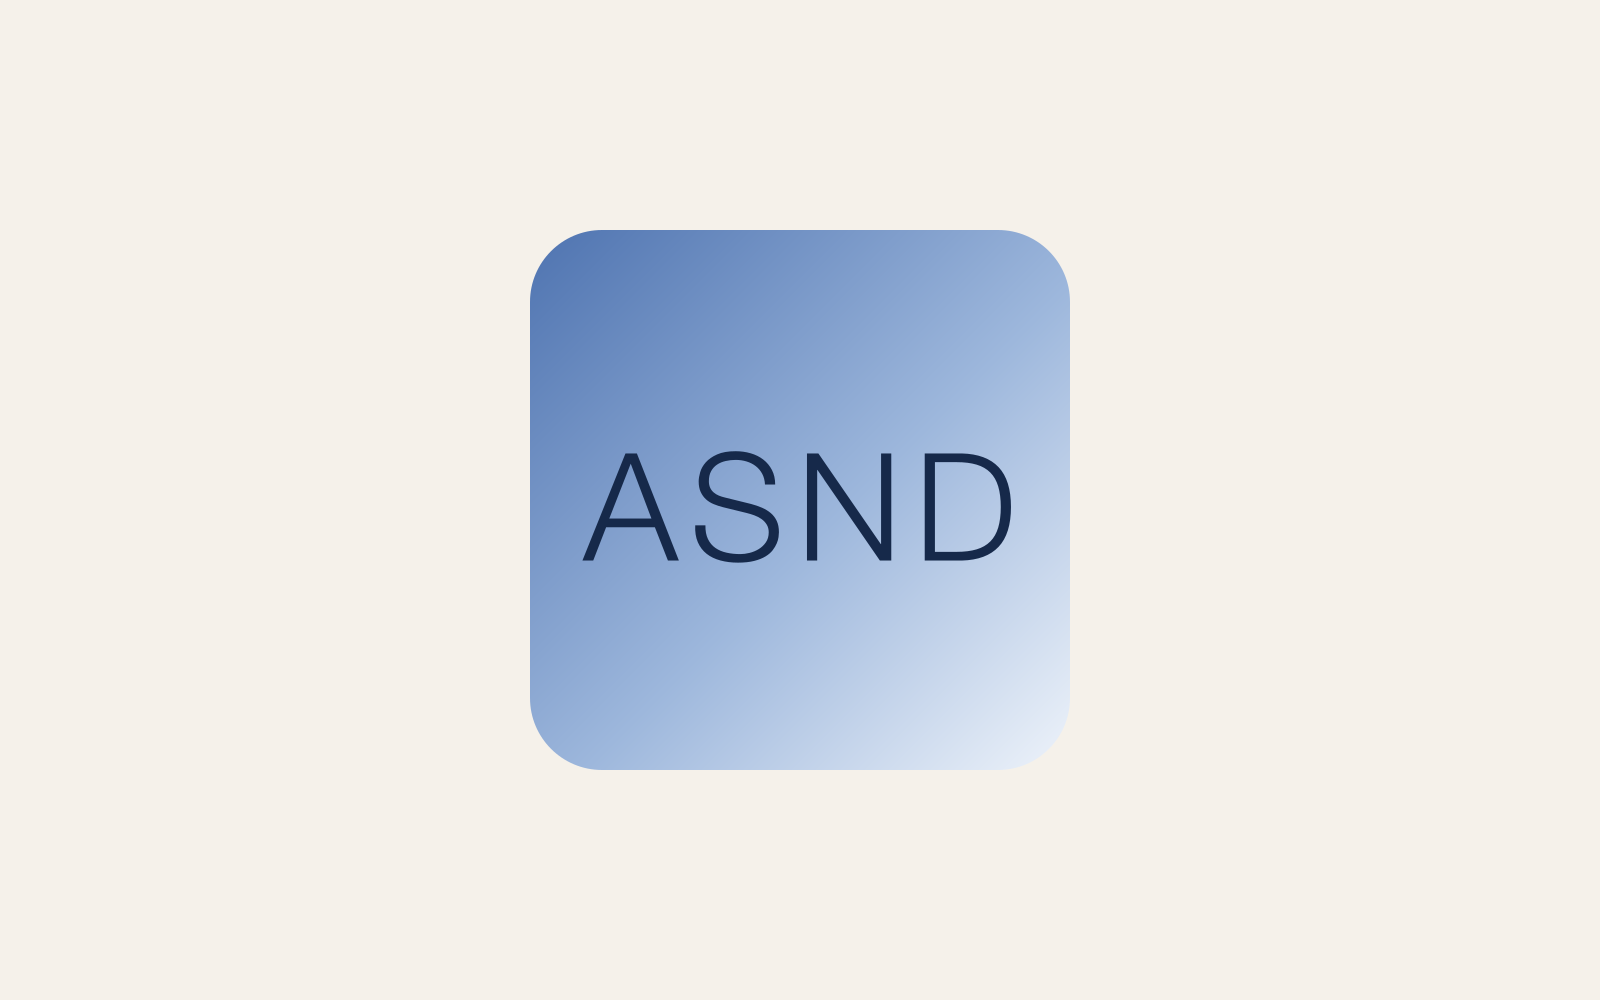
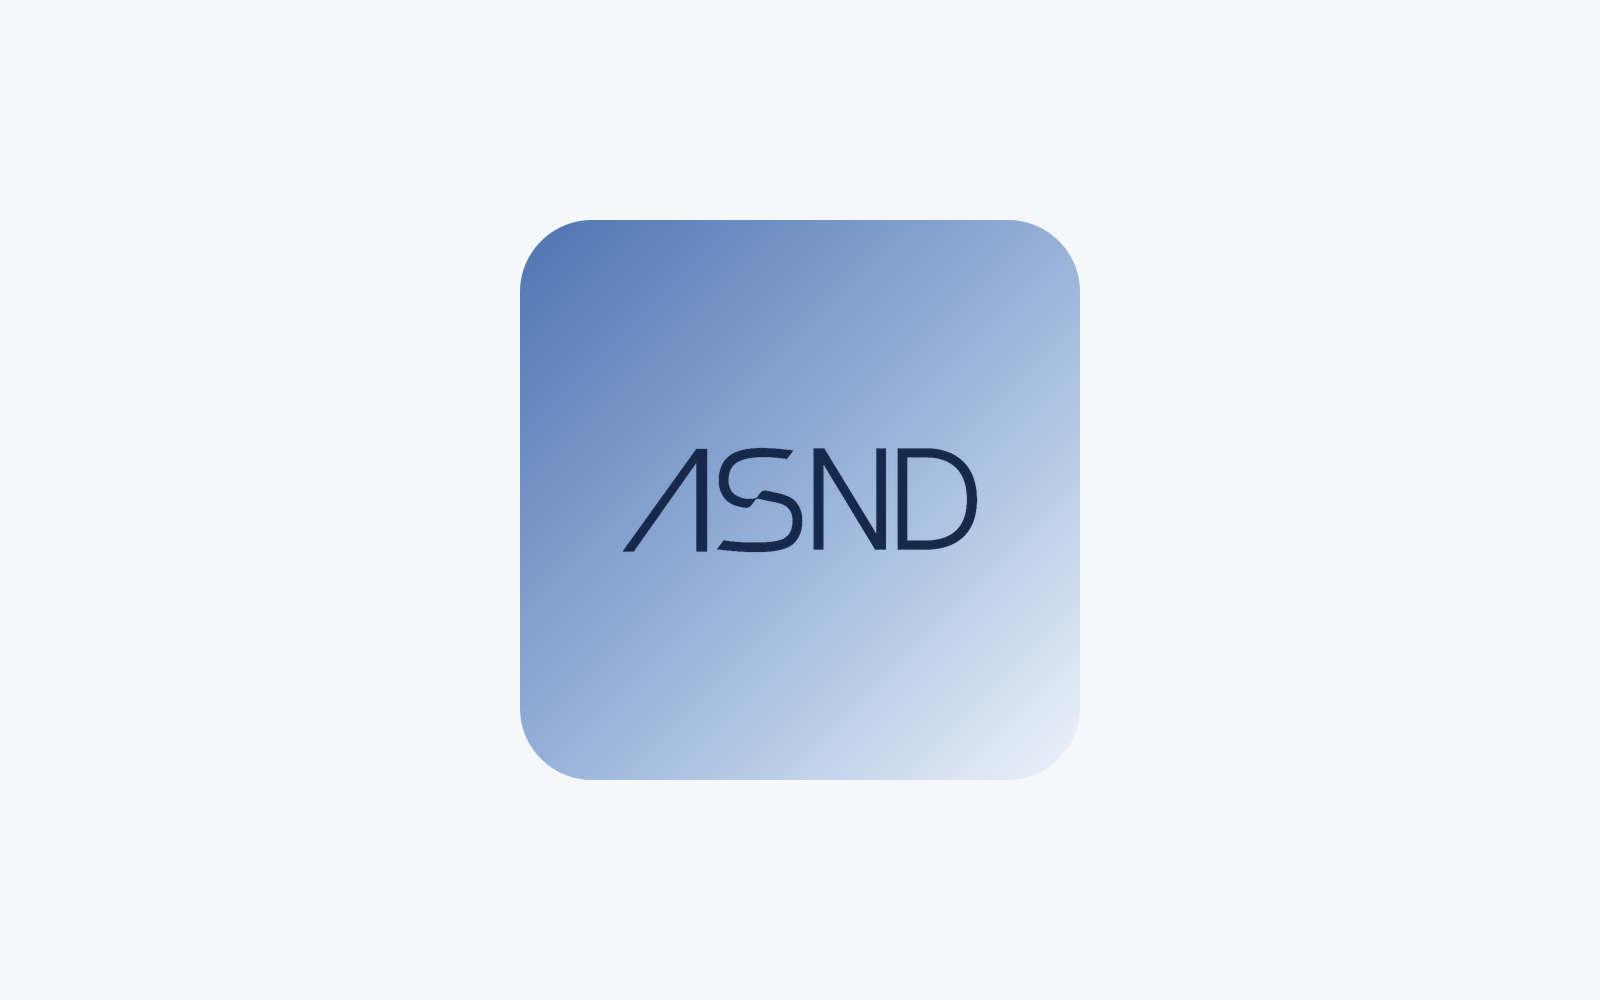
feat(work): real ASND v2 screens captured from the prototype
Replace the ASND placeholders with real screens captured from the running v2
prototype at :5199: the landing hero, the vetted directory, and the
opportunities board. Hero shows the real landing; the two body frames show the
directory and the briefs board; the cover/thumbnail is rebuilt with the real
ASND logo. ImageFrame now renders the real image. Dashboard and pipeline are
member-gated, left for a later seeded capture.

Changed region(s): [[0.3125, 0.248, 0.6875, 0.806], [0.3438, 0.217, 0.6562, 0.248]]

diff --git a/components/case-study/AsndSections.tsx b/components/case-study/AsndSections.tsx
@@ -95,30 +95,13 @@ export function Rubric({
   );
 }
 
-export function ImageFrame({
-  src,
-  alt,
-  caption,
-  width,
-  height,
-}: {
-  src: string;
-  alt: string;
-  caption?: string;
-  width?: number;
-  height?: number;
-}) {
+const IMG_BASE = "/case-studies/asnd/";
+
+export function ImageFrame({ src, alt, caption }: { src: string; alt: string; caption?: string }) {
   return (
     <figure className={styles.imgframe}>
-      <div
-        className={styles.slot}
-        role="img"
-        aria-label={alt}
-        style={width && height ? { aspectRatio: `${width} / ${height}` } : undefined}
-      >
-        <span className={styles.slotFile}>screen · {src}</span>
-        <span className={styles.slotAlt}>{alt}</span>
-      </div>
+      {/* eslint-disable-next-line @next/next/no-img-element */}
+      <img src={IMG_BASE + src} alt={alt} loading="lazy" decoding="async" className={styles.img} />
       {caption ? <figcaption className={styles.caption}>{caption}</figcaption> : null}
     </figure>
   );

diff --git a/app/(site)/work/[slug]/page.tsx b/app/(site)/work/[slug]/page.tsx
@@ -363,16 +363,15 @@ export default async function CaseStudyPage({
       ]}
     />
   ) : isAsnd ? (
-    // Interim: the ASND brand card on cream. Real prototype screens (a Discover /
-    // directory composition) replace this once captured.
+    // The real v2 landing hero, captured from the running prototype at :5199.
     <Image
-      src="/case-studies/asnd/cover.png"
-      alt="ASND, the trusted discovery layer for creative collaboration."
+      src="/case-studies/asnd/landing.png"
+      alt="The ASND landing: find the right creative for the right campaign, beside a live panel of vetted creatives searchable by craft, not clout."
       width={1600}
-      height={1000}
+      height={1039}
       sizes="(max-width: 768px) 92vw, 46vw"
       priority
-      style={{ width: "100%", height: "auto", borderRadius: 12 }}
+      style={{ width: "100%", height: "auto", borderRadius: 12, border: "1px solid var(--line)" }}
     />
   ) : undefined;
 

diff --git a/components/case-study/AsndSections.module.css b/components/case-study/AsndSections.module.css
@@ -143,6 +143,14 @@
 .imgframe {
   margin: 34px 0 6px;
 }
+.img {
+  display: block;
+  width: 100%;
+  height: auto;
+  border-radius: 12px;
+  border: 1px solid var(--line);
+  box-shadow: 0 22px 48px -28px rgba(10, 10, 10, 0.22);
+}
 .slot {
   display: flex;
   flex-direction: column;
